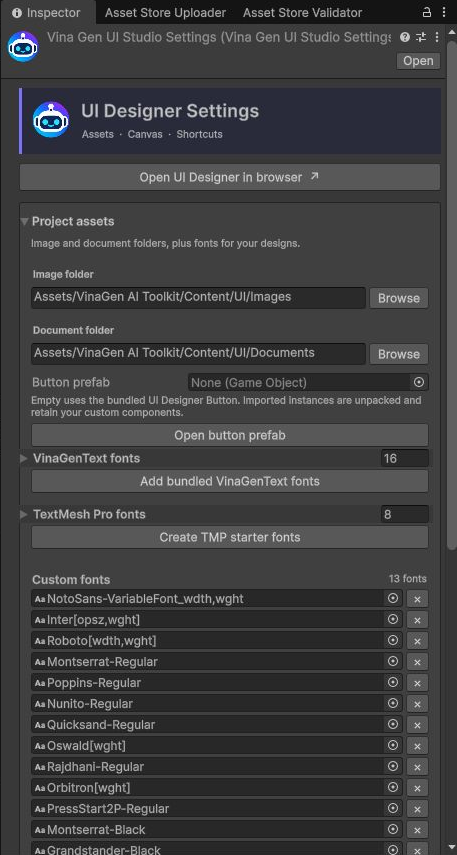
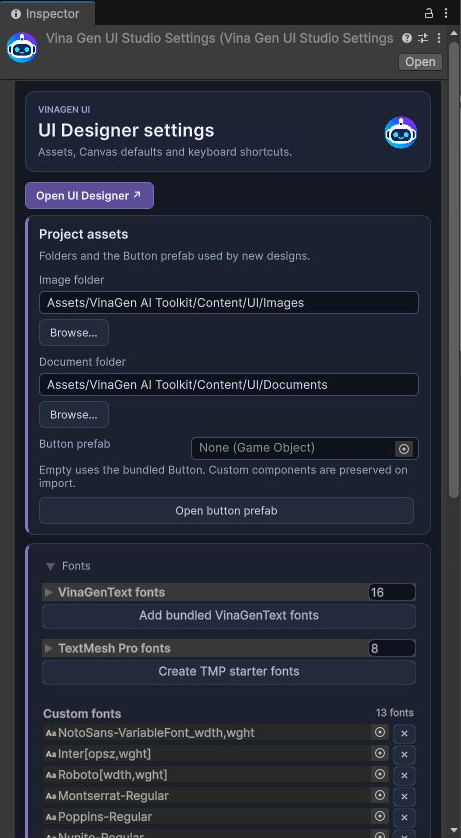
docs: refresh toolkit screenshots and settings guides

diff --git a/images/CAPTURES.md b/images/CAPTURES.md
@@ -1,29 +1,45 @@
 # Documentation capture inventory — 13 October 2026
 
-Product screenshots were captured on the local Windows computer running the `C:/Projects/vinagen` project in **Unity 6000.3.22f1**. Browser captures use the running Unity bridge or this documentation repository's real prebuilt WebGL player. They are not generated mockups. Cropping removes unrelated desktop areas or empty space; no controls, artwork or settings values were fabricated. The English interface is shared by the EN/VI guides; captions are localized.
+## Current interface refresh
+
+The 20 screenshots listed in `captures-2026-10-13.json` replace their earlier documentation images. They were captured on this Windows device from the running `C:/Projects/vinagen` project in **Unity 6000.3.22f1**, its live browser editor, and the documentation site's real prebuilt WebGL player.
+
+- The five toolkit tabs were captured at their normal **522 × 637** window size, rather than maximized.
+- Inspector captures keep the actual **461 px** wide settings pane, cropped from the Unity window. No controls or field values were fabricated. API Keys remained collapsed.
+- Browser workspaces and the Portal demo were captured in Chrome at **1280 × 800**.
+- Documentation uses the original interface captures. Asset Store Media Studio presentation frames are not used in the guides.
+- The English UI is shared by the English and Vietnamese guides; explanatory text and captions are localized.
 
 | Images | Actual capture source |
 | --- | --- |
-| `toolkit-home.png`, `toolkit-create.png`, `toolkit-particles.png`, `toolkit-bridge.png`, `toolkit-settings.png` | Native VinaGen AI Toolkit window; all five tabs. Home and Settings replace earlier captures. |
-| `settings-ai.png`, `settings-graph.png`, `settings-design.png` | Unity Inspector after opening the matching settings card. API Keys remains collapsed. |
-| `settings-ui-assets.png`, `settings-ui-canvas.png` | UI Designer Settings Inspector, first asset/font section and scrolled Canvas section. |
-| `settings-textures.png`, `settings-prefabs.png` | Texture catalog index and bundled prefab list expanded in Unity Inspector. |
-| `settings-web-particle.png`, `settings-text.png` | WebGL preview/capture settings and VinaGenText Settings Inspectors. |
-| `particle-authoring-defaults.png`, `particle-authoring-poe.png`, `particle-authoring-inspect.png`, `particle-authoring-review.png` | All four Particle Authoring tabs. Capturing a tab did not run its generation/review action. |
-| `ui-designer.png`, `ui-files.png`, `ui-assets.png`, `ui-export.png` | Local Unity browser UI Designer, bundled `Samples/Example VinaGenUIDocument/VinaGenUIDocument.svgpro`; layer/file/asset panels and actual export dialog. UI Designer replaces the previous screenshot. Assets shows the initial choose-folder state. |
-| `ui-canvas-demo.png` | Existing sample `Samples/Example VinaGenUIDocument/Scenes/UI.unity`, Game View score popup with Hierarchy/Project. |
-| `vinagen-text-demo.png` | Local UI Designer rendering of `Samples/Text Effects/ILoveYouTextShowcase.asset`; six decorated label styles. |
-| `particle-web-demo.png`, `particle-web-motion.png`, `particle-web-capture.png` | Actual `playground/?fx=toon_explosion` player, playback, expanded motion and capture controls. |
-| `particle-review-1.png`, `particle-review-2.png`, `particle-review-3.png` | Native preview-camera frames returned by API v3 `capture()`: 960 × 640, seed 12345, simulation enabled, motion disabled, `postToSink:false`. Requested times 0.08 / 0.18 / 0.80 seconds; actual times 0.079999998 / 0.180000007 / 0.800000012. Unity 6000.3.22f1, Linear color space, actual pipeline Built-in; `toon_explosion.prefab` under `Samples/GeneratedParticles/Standards/`. |
+| `toolkit-home.png`, `toolkit-create.png`, `toolkit-particles.png`, `toolkit-bridge.png`, `toolkit-settings.png` | All five native toolkit tabs at the normal window size. The shared particle player displays Installed v1.1.0. |
+| `toolkit-settings-particles.png` | Additional documentation capture: Settings scrolled to Particles & previews. Together with the top view, it shows all seven settings cards. |
+| `settings-ai.png`, `settings-graph.png`, `settings-design.png` | Current custom Unity Inspectors for AI & tool settings, Graph appearance and Design Content settings. |
+| `settings-ui-assets.png`, `settings-ui-canvas.png` | UI Designer settings: Project assets and expanded Fonts; a second view with Fonts collapsed shows Canvas defaults. |
+| `settings-textures.png`, `settings-prefabs.png` | Current texture catalog and prefab library Inspectors with lists expanded. Counts shown belong to this project. |
+| `settings-web-particle.png`, `settings-text.png` | Current Particle preview Inspector (output, review target and camera) and Text settings Inspector (Font Studio, bake output and defaults). |
+| `ui-designer.png`, `ui-export.png` | Live local UI Designer using the bundled `Samples/Example VinaGenUIDocument/VinaGenUIDocument.svgpro`; all three screens and the actual export dialog. |
+| `flow-editor.png`, `design-editor.png` | Live local browser editor using `Samples/Graphs/NewMockFlowGraph.asset` and `NewDesignContentGraph.asset`. |
+| `vinagen-text-demo.png` | Live UI Designer rendering `Samples/Text Effects/ILoveYouTextShowcase.asset`; six decorated text styles. |
+| `particle-web-demo.png` | Live `playground/?fx=portal&replay=1&lang=en` player. The bundled Portal effect was paused after it became visible, using the browser playback control. |
 
-Existing `flow-editor.png`, `design-editor.png`, `design-document-editor.png`, `agent-chat.png`, texture sheets and robot artwork are retained from the previous documentation; they were not recaptured in this update.
+## Retained captures
+
+These images remain from the earlier documentation batch. They were not recaptured as part of the current interface refresh:
+
+- `ui-files.png`, `ui-assets.png`: file and asset panels in the local UI Designer.
+- `ui-canvas-demo.png`: the existing bundled UI scene in Unity Game View with Hierarchy and Project.
+- `particle-authoring-defaults.png`, `particle-authoring-poe.png`, `particle-authoring-inspect.png`, `particle-authoring-review.png`: the four Particle Authoring tabs. Taking these images did not execute generation actions.
+- `particle-web-motion.png`, `particle-web-capture.png`: the earlier Toon Explosion preview with expanded motion and capture controls.
+- `particle-review-1.png`, `particle-review-2.png`, `particle-review-3.png`: explicit native preview-camera frames from `toon_explosion.prefab`, at 960 × 640, seed 12345, simulation enabled, motion disabled, `postToSink:false`. Requested times: 0.08 / 0.18 / 0.80 s; actual times: 0.079999998 / 0.180000007 / 0.800000012 s. Actual pipeline: Built-in.
+- `design-document-editor.png`, `agent-chat.png`, texture sheets and robot artwork.
 
 ## Verification scope
 
-- Inspected the 30 new/replacement captures and browser renders. All 24 EN/VI article routes passed browser checks, including image loading and section links; six mobile layouts had no page overflow. The static audit resolved all 104 image references and local document links. `git diff --check` passed.
-- Ran the actual Built-in WebGL effect and explicit seeded camera captures. Returned frames include timing and pipeline metadata; an API success flag is not a substitute for looking at the images.
-- No paid AI-provider request, WebGL player build, new Canvas/UI Toolkit import or new text bake was needed for these documentation captures.
-- This update does not validate a clean toolkit-only Unity import, URP/HDRP parity, Photoshop round trips or target-device performance. UI Toolkit behavior is documented from the current implementation/skill contract; the Canvas screenshots are not proof of UI Toolkit parity.
+All 20 replacements were checked against the capture hashes and dimensions, existing article references, and the local HTTP responses. The additional Settings image loaded correctly. The updated Settings page was inspected in both languages; its image pair becomes a single column on a 390 px screen with no horizontal page overflow.
+
+The current refresh changes documentation images and labels. It does not verify a clean Unity import, URP/HDRP parity, Photoshop round trips, or target-device performance. Existing camera-frame evidence and standalone-editor verification retain their original scope. No paid AI request, new WebGL build, Canvas/UI Toolkit import, or text bake was performed for this refresh.
+
 # Standalone Web Designer — 13 October 2026
 
 `web-designer/workspace.png`, `settings.png`, `export.png`, `inspector.png`,

diff --git a/vi/settings.md b/vi/settings.md
@@ -2,7 +2,12 @@
 
 Mở **Tools → VinaGen AI Toolkit → Open → Settings**. Bấm **Open** trên thẻ để chọn asset trong **Inspector** của Unity. Mở rộng từng nhóm để xem các trường; thay đổi được lưu trên asset của dự án.
 
-![Tab Settings với đầy đủ bảy thẻ cài đặt](../images/toolkit-settings.png)
+Ở kích thước cửa sổ thường, cuộn tab **Settings** để xem đủ các thẻ. Nhóm **Make it yours** chứa cài đặt AI, graph, design và UI; nhóm **Particles & previews** chứa các thư viện và cài đặt preview particle.
+
+<div class="vg-pair">
+  <figure><img src="images/toolkit-settings.png" alt="Settings: các thẻ AI, Graph Appearance, Design Content và UI Designer" loading="lazy"><figcaption>Make it yours: cài đặt AI, graph, design và UI.</figcaption></figure>
+  <figure><img src="images/toolkit-settings-particles.png" alt="Settings sau khi cuộn tới Particles and previews" loading="lazy"><figcaption>Cuộn xuống: thư viện texture, prefab và Particle WebGL Preview.</figcaption></figure>
+</div>
 
 Ảnh được chụp trên máy này ngày **13/10/2026**, bằng **Unity 6000.3.22f1**. Giá trị trong ảnh thuộc dự án demo; hãy dùng thư mục, độ phân giải và nhà cung cấp phù hợp.
 
@@ -42,14 +47,14 @@ Bấm vào ảnh để phóng lớn khi đọc nhãn trong Inspector.
 | **VinaGenText fonts** | **Add bundled VinaGenText fonts** đăng ký font có sẵn. |
 | **TextMesh Pro fonts** | **Create TMP starter fonts** chuẩn bị font từ tài nguyên TMP chính thức khi cần. |
 | **Custom fonts** | Thả TTF/OTF vào đây để Text và trình duyệt dùng được. |
-| **Default screen resolution** | Width/height cho tài liệu mới. Tài liệu đã lưu giữ kích thước riêng khi import và mở Game View. |
-| **Canvas scaling → Match** | 0 ưu tiên chiều rộng; 1 ưu tiên chiều cao. Kiểm tra màn hình dọc/ngang. |
-| **Snap grid (px)** | Bước lưới khi đặt vị trí. |
+| **Canvas defaults → Reference Resolution** | Width/height cho tài liệu mới. Tài liệu đã lưu giữ kích thước riêng khi import và mở Game View. |
+| **Match Width Or Height** | 0 ưu tiên chiều rộng; 1 ưu tiên chiều cao. Kiểm tra màn hình dọc/ngang. |
+| **Grid Size** | Bước lưới khi đặt vị trí. |
 | **Auto adjust anchors** | Suy ra anchor khi chỉnh/import; tắt để giữ anchor thủ công. |
-| **Linear alpha** | Chọn Gamma Compositor hoặc Compensate Alpha, rồi so sánh Game View với trình duyệt. |
+| **Linear Alpha Mode** | Chọn Gamma Compositor hoặc Compensate Alpha, rồi so sánh Game View với trình duyệt. |
 | **Keyboard shortcuts** | Mở rộng để chỉnh phím tắt; mở lại cài đặt trình duyệt để làm mới. |
 
-Dùng **Open UI Designer in browser** để trở lại workspace. [UI Designer](ui-designer.md) giải thích import Canvas/UI Toolkit.
+Dùng **Open UI Designer ↗** để trở lại workspace. [UI Designer](ui-designer.md) giải thích import Canvas/UI Toolkit.
 
 ## Thư viện particle
 
@@ -64,7 +69,7 @@ Dùng **Open UI Designer in browser** để trở lại workspace. [UI Designer]
 
 ## Particle WebGL Preview Settings
 
-![Cài đặt WebGL Particle: camera và tùy chọn chụp theo yêu cầu](../images/settings-web-particle.png)
+![Cài đặt WebGL Particle: nơi lưu, Review Target và camera](../images/settings-web-particle.png)
 
 | Nhóm | Chỉnh gì |
 | --- | --- |
@@ -86,8 +91,8 @@ Mở **Tools → VinaGen AI Toolkit → Text → Settings**.
 
 - **Font Studio → Create Font…:** tạo font với bộ ký tự game cần.
 - **Output Folder:** nơi lưu bake và trang atlas dùng chung. Phiên bản này hiển thị mặc định legacy `Assets/VinaGen Text Bakes`. Với đầu ra toolkit/sample, đặt thư mục trong `Assets/VinaGen AI Toolkit/`, chẳng hạn `Samples/Text Effects/Bakes/` dưới root này. PSD riêng giữ thư mục thuộc lần import đó.
-- **Auto Bake New Texts:** mặc định cho label mới; label đang có giữ cài đặt trên component.
-- **Shared Atlas:** label đã bake tương thích trong cùng thư mục có thể dùng chung trang texture.
+- **New text defaults → Auto Bake New Texts:** mặc định cho label mới; label đang có giữ cài đặt trên component. Label đã chỉnh sẽ bake khi kết thúc chỉnh sửa hoặc khi lưu scene/prefab. Gõ chữ và kéo thả không tự chạy bake.
+- **Baked images → Shared Atlas:** label đã bake tương thích trong cùng thư mục có thể dùng chung trang texture.
 
 Xem [VinaGenText](vinagen-text.md) để chọn chế độ render và [demo](demos.md) để thực hành.
 

diff --git a/settings.md b/settings.md
@@ -2,7 +2,12 @@
 
 Open **Tools → VinaGen AI Toolkit → Open → Settings**. Click **Open** on a card to select its asset in Unity's **Inspector**. Expand a section to see its fields; changes are stored on that project asset.
 
-![Settings tab with all seven settings cards](images/toolkit-settings.png)
+At a normal window size, scroll the **Settings** tab to reach all cards. **Make it yours** contains AI, graph, design and UI settings; **Particles & previews** contains the libraries and particle preview settings.
+
+<div class="vg-pair">
+  <figure><img src="images/toolkit-settings.png" alt="Settings: AI, Graph Appearance, Design Content and UI Designer cards" loading="lazy"><figcaption>Make it yours: AI, graph, design and UI settings.</figcaption></figure>
+  <figure><img src="images/toolkit-settings-particles.png" alt="Settings scrolled to Particles and previews" loading="lazy"><figcaption>Scroll down: texture and prefab libraries, and Particle WebGL Preview.</figcaption></figure>
+</div>
 
 These screenshots were captured on this computer on **13 October 2026**, using **Unity 6000.3.22f1**. Values shown belong to the demo project; use your own folders, resolution and provider.
 
@@ -42,14 +47,14 @@ Set **Comment Display Name** before leaving web review comments. Change graph co
 | **VinaGenText fonts** | **Add bundled VinaGenText fonts** registers supplied fonts. |
 | **TextMesh Pro fonts** | **Create TMP starter fonts** prepares fonts from official TMP resources when needed. |
 | **Custom fonts** | Drop TTF/OTF fonts here for Text and browser use. |
-| **Default screen resolution** | Width/height for new documents. Existing documents retain their saved size for import and Game View. |
-| **Canvas scaling → Match** | 0 favors width; 1 favors height. Check portrait and landscape layouts. |
-| **Snap grid (px)** | Positioning grid increment. |
+| **Canvas defaults → Reference Resolution** | Width/height for new documents. Existing documents retain their saved size for import and Game View. |
+| **Match Width Or Height** | 0 favors width; 1 favors height. Check portrait and landscape layouts. |
+| **Grid Size** | Positioning grid increment. |
 | **Auto adjust anchors** | Derive anchors during editing/import; disable when preserving manual anchors. |
-| **Linear alpha** | Choose Gamma Compositor or Compensate Alpha, then compare Game View with the browser. |
+| **Linear Alpha Mode** | Choose Gamma Compositor or Compensate Alpha, then compare Game View with the browser. |
 | **Keyboard shortcuts** | Expand to customize commands; reopen browser settings to refresh. |
 
-Use **Open UI Designer in browser** to return to your workspace. [UI Designer](ui-designer.md) explains Canvas/UI Toolkit import.
+Use **Open UI Designer ↗** to return to your workspace. [UI Designer](ui-designer.md) explains Canvas/UI Toolkit import.
 
 ## Particle libraries
 
@@ -64,7 +69,7 @@ Use **Open UI Designer in browser** to return to your workspace. [UI Designer](u
 
 ## Particle WebGL Preview Settings
 
-![Particle WebGL settings: camera and explicit capture options](images/settings-web-particle.png)
+![Particle WebGL settings: output folders, review target and camera](images/settings-web-particle.png)
 
 | Section | Adjusts |
 | --- | --- |
@@ -86,8 +91,8 @@ Open **Tools → VinaGen AI Toolkit → Text → Settings**.
 
 - **Font Studio → Create Font…:** build a font with the characters your game needs.
 - **Output Folder:** destination for bakes and shared atlas pages. This version displays the legacy `Assets/VinaGen Text Bakes` default. For toolkit/sample output, choose a folder inside `Assets/VinaGen AI Toolkit/`, such as `Samples/Text Effects/Bakes/` under that root. Private PSD imports retain their own owned folder.
-- **Auto Bake New Texts:** default for new labels; existing labels retain their component setting.
-- **Shared Atlas:** compatible baked labels in the same output folder can share texture pages.
+- **New text defaults → Auto Bake New Texts:** default for new labels; existing labels retain their component setting. A changed label bakes when editing loses focus or its scene/prefab is saved. Typing and dragging do not trigger a bake.
+- **Baked images → Shared Atlas:** compatible baked labels in the same output folder can share texture pages.
 
 See [VinaGenText](vinagen-text.md) for rendering modes and [demos](demos.md) for a first practice run.
 

diff --git a/vi/webgl-preview.md b/vi/webgl-preview.md
@@ -2,14 +2,14 @@
 
 **Mục đích chính của Web Particle là hỗ trợ AI Agent kiểm thử trực quan particle mà agent tạo ra.** Agent tải hiệu ứng, đọc trạng thái runtime, chụp thời điểm đã chọn, đánh giá ảnh, chỉnh hiệu ứng trong Unity rồi kiểm thử phiên bản tiếp theo. Người dùng cũng có thể xem và kiểm tra thủ công trên cùng preview.
 
-![Player WebGL thật với hiệu ứng và điều khiển playback](../images/particle-web-demo.png)
+![Demo Portal trong player WebGL thật với điều khiển playback](../images/particle-web-demo.png)
 
 [Demo trên website](particles.md) minh họa hiệu ứng có sẵn. Preview cục bộ tải prefab/bundle của dự án qua Unity bridge. Điều khiển trình duyệt chỉnh playback live, không tự lưu về prefab Unity. Agent cần áp dụng thay đổi bền vững trong Unity rồi xuất/tải lại phiên bản mới.
 
 ## Chuẩn bị player
 
 1. Giữ Unity mở, bật **Open → MCP Bridge**.
-2. Mở **Tools → VinaGen AI Toolkit → Open → Particles**. Trong **Particle WebGL player**, bấm **Download** nếu chưa cài. Player được tải một lần, dùng chung cho các dự án trên máy. **Re-download** cập nhật; **Show folder** mở nơi lưu.
+2. Mở **Tools → VinaGen AI Toolkit → Open → Particles**. Trong **Particle WebGL player**, bấm **Download** nếu chưa cài. Player được tải một lần, dùng chung cho các dự án trên máy. Nếu bản cài đã cũ, bấm **Update**; khi đã cài, **Re-download** tải lại player và **Show folder** mở nơi lưu.
 3. Cài **WebGL Build Support** chính thức qua Unity Hub khi cần xuất bundle prefab gốc.
 4. Mở **Editors → Open Particle Preview → Built-in / URP / HDRP**, hoặc `webPreviewUrl` toolkit trả về cho hiệu ứng.
 

diff --git a/webgl-preview.md b/webgl-preview.md
@@ -2,14 +2,14 @@
 
 **Web Particle primarily helps an AI Agent visually test the particles it creates.** The agent loads an effect, inspects runtime state, captures selected moments, evaluates the images, adjusts the Unity effect and tests the next revision. Users can also inspect the same preview manually.
 
-![Real WebGL particle preview and playback controls](images/particle-web-demo.png)
+![Portal demo in the real WebGL player with playback controls](images/particle-web-demo.png)
 
 The [website demos](particles.md) show supplied effects. A project's local preview loads that project's prefab/bundle through the Unity bridge. Browser controls change live playback; they do not save edits back to a Unity prefab. The agent must apply persistent edits in Unity and export/reload the revision.
 
 ## Prepare the player
 
 1. Keep Unity open and start **Open → MCP Bridge**.
-2. Open **Tools → VinaGen AI Toolkit → Open → Particles**. Under **Particle WebGL player**, use **Download** if missing. It is downloaded once and shared by projects on this computer. **Re-download** updates it; **Show folder** locates it.
+2. Open **Tools → VinaGen AI Toolkit → Open → Particles**. Under **Particle WebGL player**, use **Download** if missing. It is downloaded once and shared by projects on this computer. If the installed version is outdated, use **Update**. Once installed, **Re-download** downloads it again and **Show folder** locates it.
 3. Install official **WebGL Build Support** through Unity Hub when exporting native prefab bundles.
 4. Open **Editors → Open Particle Preview → Built-in / URP / HDRP**, or the returned `webPreviewUrl` for your effect.
 
